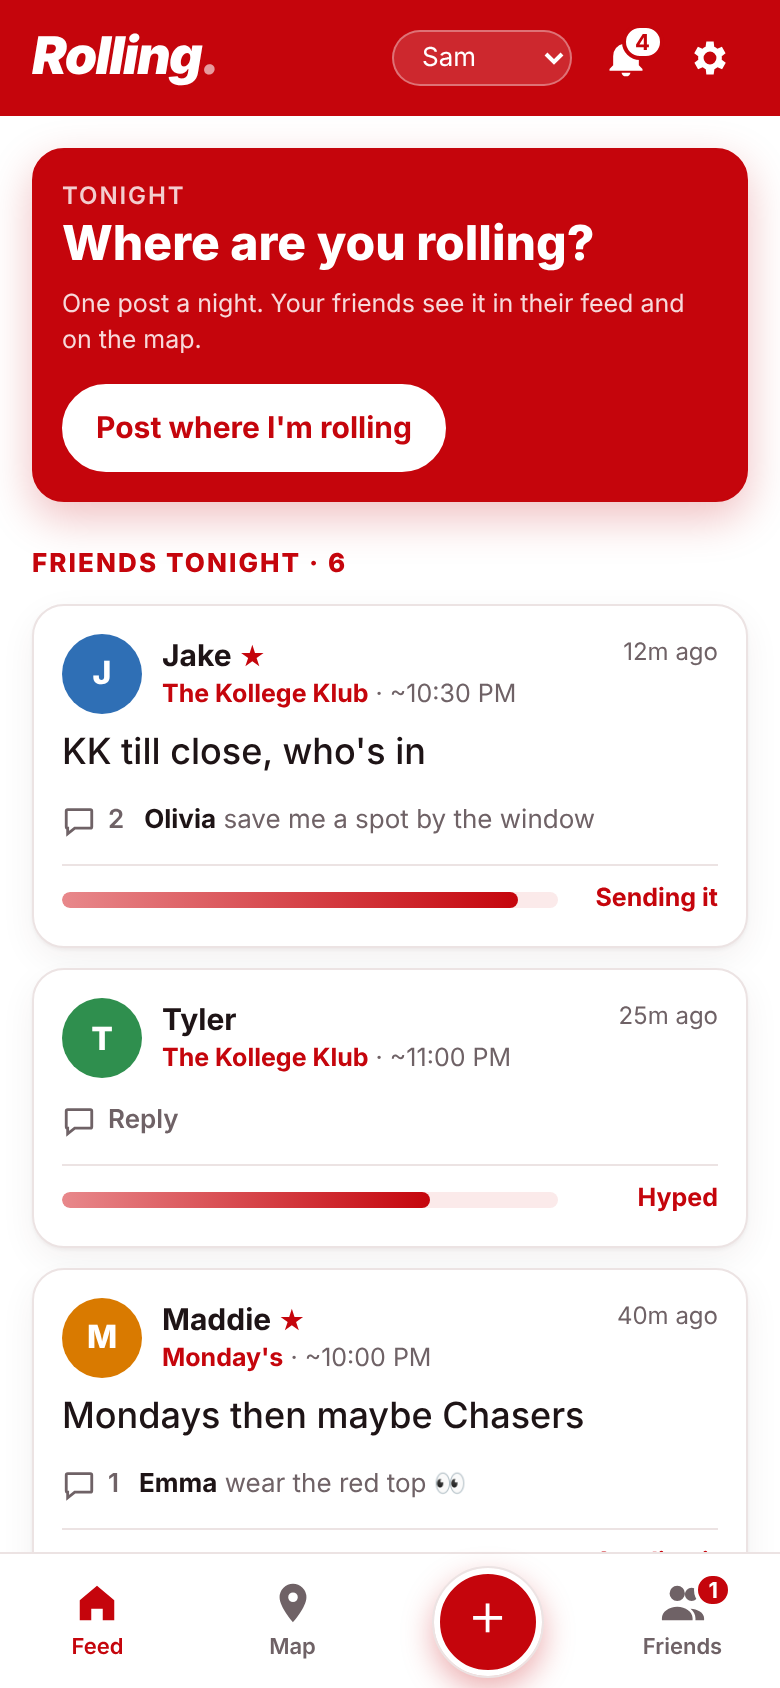
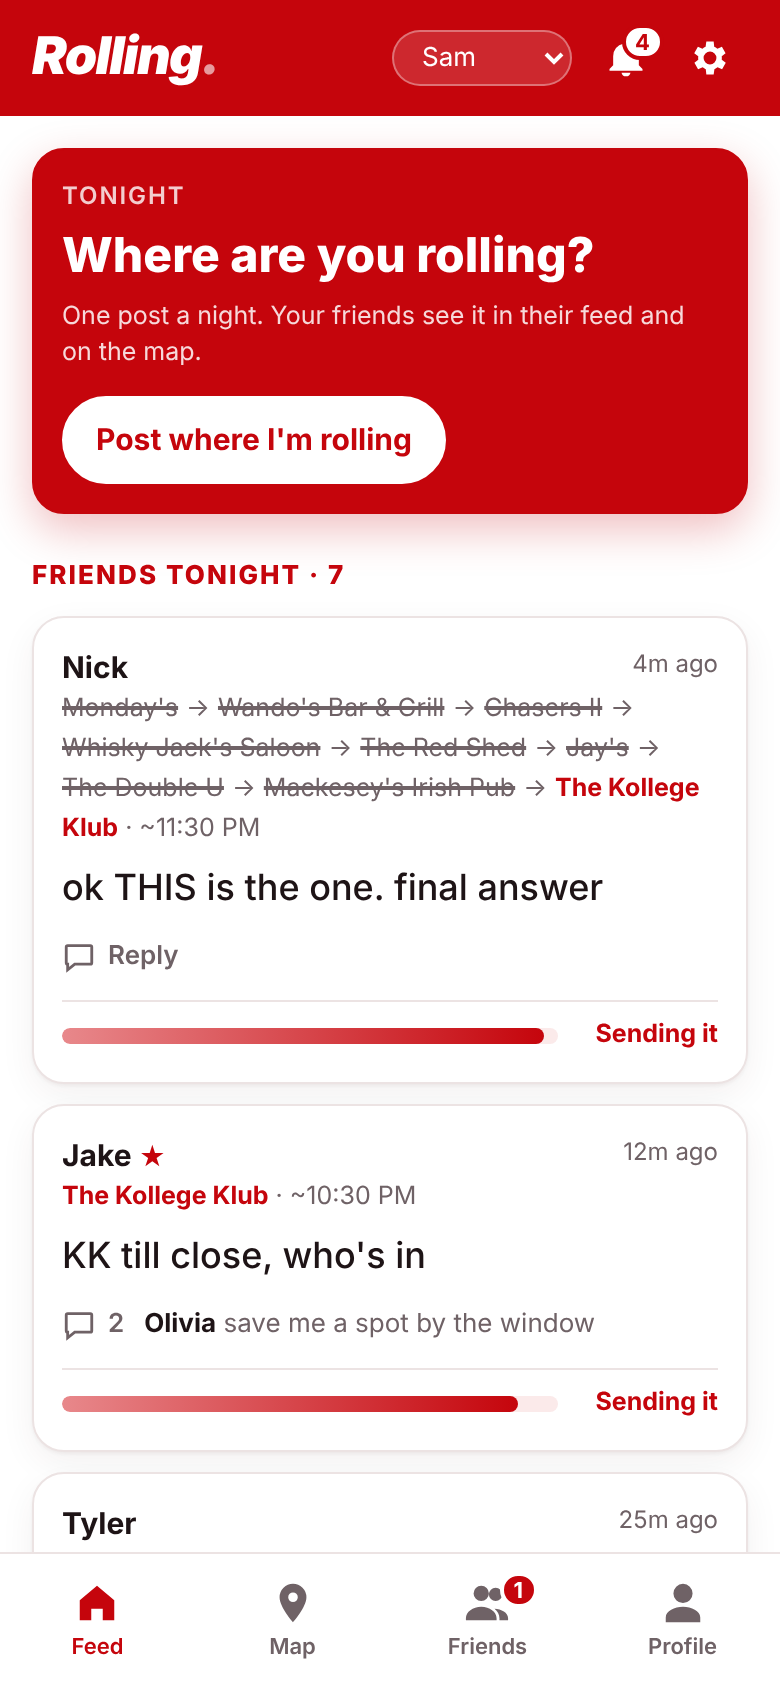
Replace middle + button with a Profile tab; drop profile pictures
Tab bar is now Feed, Map, Friends, Profile. Posting starts from the card at
the top of the feed. Profile shows name, @handle, stats, top 3 spots and
Edit profile, with no join date. Colored letter avatars are removed from
posts, replies, friends, requests and the map sheet, which now lists who's
going by name.

Claude-Session: https://claude.ai/code/session_01LsgwHYcrkn2rvmvnVgPXbN

diff --git a/app.js b/app.js
@@ -93,9 +93,6 @@
     if (m < 60) return m + "m ago";
     return Math.floor(m / 60) + "h ago";
   }
-  function avatar(u, cls = "") {
-    return `<div class="avatar ${cls}" style="background:${u.color}">${esc(u.name[0])}</div>`;
-  }
   function distKm(a, b) {
     const R = 6371, toR = Math.PI / 180;
     const dLat = (b[0] - a[0]) * toR, dLon = (b[1] - a[1]) * toR;
@@ -151,7 +148,6 @@
     if (name === "map") setTimeout(() => map && map.invalidateSize(), 0);
   }
   document.querySelectorAll(".tabbar [data-tab]").forEach((b) => b.addEventListener("click", () => showTab(b.dataset.tab)));
-  $("#postBtn").addEventListener("click", () => openComposer());
 
   // ---------- view-as switcher (stand-in for sign-in) ----------
   function renderViewAs() {
@@ -190,12 +186,17 @@
     box.classList.remove("hidden");
   }, true);
 
+  // "Jake", "Jake and Tyler", "Jake, Tyler and Olivia"
+  function nameList(n) {
+    return n.length < 2 ? (n[0] || "") : n.slice(0, -1).join(", ") + " and " + n[n.length - 1];
+  }
+
   // ---------- feed ----------
-  // Post layout (Sam, 2026-11-18): name + picture, then bar and arrival time in
+  // Post layout (Sam, 2026-11-18): name (no profile pictures anywhere), then bar and arrival time in
   // small text, then the comment in larger text, replies, and the excitement bar last.
   function postBody(p, opts = {}) {
     const u = user(p.userId), b = BAR_BY_ID[p.barId];
-    return `<div class="post-head">${avatar(u)}
+    return `<div class="post-head">
         <div class="post-meta">
           <div class="line1"><span class="who">${u.id === state.me ? "You" : esc(u.name)}${isFav(state.me, u.id) ? ' <span class="fav-star" title="Favorite">★</span>' : ""}</span><span class="time">${ago(p.at)}</span></div>
           <div class="post-where">${(p.history || []).map((h, i) =>
@@ -250,7 +251,7 @@
 
     if (quiet.length) {
       html += `<h2>Haven't posted yet</h2><div class="waiting">` +
-        quiet.map((u) => `<div class="w">${avatar(u, "sm")}${esc(u.name)}</div>`).join("") + `</div>`;
+        quiet.map((u) => `<div class="w">${esc(u.name)}</div>`).join("") + `</div>`;
     }
     el.innerHTML = html;
 
@@ -475,11 +476,12 @@
     openSheet(`
       <h3>${esc(b.name)}</h3>
       <div class="sub">${esc(b.addr || b.type)}${posts.length ? ` · ${posts.length} going tonight` : ""}</div>
+      ${posts.length ? `<div class="goer-names">${esc(nameList(posts.map((p) => p.userId === state.me ? "You" : user(p.userId).name)))}</div>` : ""}
       ${friendSpots().count[barId] ? `<div class="spot-note">Your friends have rolled here ${friendSpots().count[barId]} time${friendSpots().count[barId] > 1 ? "s" : ""} before</div>` : ""}
       ${avg !== null ? `<div class="field-label">Group excitement</div>${meter(avg)}` : ""}
       <div class="goers">${posts.length ? posts.map((p) => {
         const u = user(p.userId);
-        return `<div class="g">${avatar(u, "sm")}<div class="g-body">
+        return `<div class="g"><div class="g-body">
           <div><b>${u.id === state.me ? "You" : esc(u.name)}</b> <span class="sub small">· ~${fmtTime(p.arrive)}</span></div>
           ${meter(p.excitement, true)}
           ${p.comment ? `<div class="small g-comment">${esc(p.comment)}</div>` : ""}
@@ -503,7 +505,7 @@
     const others = state.users.filter((u) => u.id !== state.me && !f.has(u.id) && !gotFrom.has(u.id));
     const mutuals = (uid) => [...friendIds(uid)].filter((x) => f.has(x)).length;
     const person = (u, sub, actions) => `
-      <div class="person" data-name="${esc((u.name + " " + u.handle).toLowerCase())}">${avatar(u)}
+      <div class="person" data-name="${esc((u.name + " " + u.handle).toLowerCase())}">
         <div class="meta"><div class="n">${esc(u.name)}</div><div class="h">@${esc(u.handle)}${sub ? " · " + sub : ""}</div></div>
         <div class="actions">${actions}</div></div>`;
 
@@ -605,7 +607,7 @@
       <div class="field-label">${rs.length} ${rs.length === 1 ? "reply" : "replies"}</div>
       <div class="replies">${rs.map((r) => {
         const ru = user(r.userId);
-        return `<div class="reply">${avatar(ru, "sm")}<div class="reply-body">
+        return `<div class="reply"><div class="reply-body">
           <div><b>${r.userId === state.me ? "You" : esc(ru.name)}</b> <span class="sub small">· ${ago(r.at)}</span></div>
           <div class="reply-text">${esc(r.text)}</div></div></div>`;
       }).join("") || `<div class="sub small">No replies yet. Start the conversation.</div>`}</div>
@@ -811,7 +813,7 @@
 
       <h2>Favorites</h2>
       <div class="card list">${friends.length ? friends.map((u) => `
-        <div class="person">${avatar(u, "sm")}<div class="meta"><div class="n">${esc(u.name)}</div></div><div class="actions">${starBtn(u.id)}</div></div>`).join("")
+        <div class="person"><div class="meta"><div class="n">${esc(u.name)}</div></div><div class="actions">${starBtn(u.id)}</div></div>`).join("")
         : `<div class="sub small">Add friends first, then star your favorites here.</div>`}</div>
 
       <h2>How you get them</h2>
@@ -848,6 +850,53 @@
     };
   }
 
+  // ---------- profile ----------
+  // First version, kept simple on purpose: who you are, a few counts, your usual spots.
+  function renderProfile() {
+    const el = $("#tab-profile");
+    const me = user(state.me);
+    const mine = state.posts.filter((p) => p.userId === state.me);
+    const nights = new Set(mine.map((p) => nightKey(p.at))).size;
+    const counts = {};
+    for (const p of mine) {
+      counts[p.barId] = (counts[p.barId] || 0) + 1;
+      for (const h of p.history || []) counts[h.barId] = (counts[h.barId] || 0) + 1;
+    }
+    const switches = mine.reduce((a, p) => a + (p.history || []).length, 0);
+    const top = Object.entries(counts).sort((a, b) => b[1] - a[1]).slice(0, 3);
+    el.innerHTML = `
+      <div class="profile-head">
+        <div class="profile-name">${esc(me.name)}</div>
+        <div class="sub">@${esc(me.handle)}</div>
+        <button class="btn small" id="editProfile">Edit profile</button>
+      </div>
+      <div class="card stats">
+        <div><b>${nights}</b><span>nights out</span></div>
+        <div><b>${Object.keys(counts).length}</b><span>bars</span></div>
+        <div><b>${switches}</b><span>switches</span></div>
+      </div>
+      <h2>Your usual spots</h2>
+      <div class="card list">${top.length ? top.map(([id, n], i) => `
+        <button class="spot-row" data-bar="${id}"><span class="rank top">${i + 1}</span>
+          <span class="info"><div class="n">${esc(BAR_BY_ID[id].name)}</div><div class="sub small">${n} night${n > 1 ? "s" : ""}</div></span></button>`).join("")
+        : `<div class="sub small">Post where you're rolling and your favorite bars show up here.</div>`}</div>`;
+    el.querySelectorAll("[data-bar]").forEach((n) => n.onclick = () => { showTab("map"); focusBar(n.dataset.bar); });
+    $("#editProfile").onclick = () => {
+      openSheet(`<h3>Edit profile</h3><div class="sub">Your friends see this.</div>
+        <label class="field-label" for="pfName">Name</label><input class="search" id="pfName" maxlength="30" value="${esc(me.name)}" />
+        <label class="field-label" for="pfHandle">Handle</label><input class="search" id="pfHandle" maxlength="20" value="${esc(me.handle)}" />
+        <div class="small counter" id="pfErr"></div>
+        <div class="sheet-actions"><button class="btn" id="pfCancel">Cancel</button><button class="btn primary" id="pfSave">Save</button></div>`);
+      $("#pfCancel").onclick = closeSheet;
+      $("#pfSave").onclick = () => {
+        const name = $("#pfName").value.trim(), handle = $("#pfHandle").value.trim().replace(/^@/, "").toLowerCase();
+        if (!name || !/^[a-z0-9_.]{2,20}$/.test(handle)) { $("#pfErr").textContent = "Add a name, and a handle of 2 to 20 letters, numbers, _ or ."; return; }
+        if (state.users.some((u) => u.id !== me.id && u.handle === handle)) { $("#pfErr").textContent = "@" + handle + " is taken."; return; }
+        me.name = name; me.handle = handle; save(); closeSheet(); renderViewAs(); render(); toast("Profile saved");
+      };
+    };
+  }
+
   // ---------- render ----------
   function render() {
     renderBadge();
@@ -856,6 +905,7 @@
     if (currentTab === "feed") renderFeed();
     if (currentTab === "map") renderMap();
     if (currentTab === "friends") renderFriends();
+    if (currentTab === "profile") renderProfile();
   }
 
   // First run: build the starting inbox by replaying tonight's posts and pending requests.

diff --git a/styles.css b/styles.css
@@ -78,9 +78,6 @@ h2:first-child { margin-top: 0; }
 .btn.ghost { color: var(--muted); }
 .btn.small { padding: 6px 12px; font-size: 13px; }
 
-.avatar { width: 40px; height: 40px; border-radius: 50%; display: grid; place-items: center;
-  font-weight: 800; color: var(--white); flex: none; font-size: 16px; }
-.avatar.sm { width: 30px; height: 30px; font-size: 12px; }
 
 /* Feed */
 .mine { background: var(--red); border-color: var(--red); color: var(--white); box-shadow: 0 8px 22px rgba(197,5,12,.25); }
@@ -309,7 +306,6 @@ textarea.comment:focus { border-color: var(--red); }
 .mine .post-where b, .mine .reply-peek b, .mine .fav-star { color: var(--white); }
 .mine .post-meta .who { color: var(--white); }
 .mine .post-meter { border-top-color: rgba(255,255,255,.3); }
-.mine .avatar { box-shadow: 0 0 0 2px var(--white); }
 .mine .reply-bar { margin-top: 8px; }
 .mine .post-text { margin-top: 8px; }
 .mine .post-meter { margin-top: 8px; }
@@ -330,3 +326,23 @@ textarea.comment:focus { border-color: var(--red); }
 .was-comment { margin-top: 4px; font-size: 14px; overflow-wrap: anywhere; }
 .was-comment.none { color: var(--muted); font-style: italic; }
 .mine .was-comment.none { color: rgba(255,255,255,.75); }
+
+/* Profile */
+.profile-head { display: flex; flex-direction: column; align-items: center; text-align: center; gap: 4px; padding: 10px 0 16px; }
+.profile-name { font-family: var(--display); font-size: 26px; font-weight: 800; }
+.profile-head .btn { margin-top: 10px; }
+.stats { display: grid; grid-template-columns: repeat(3, 1fr); text-align: center; padding: 14px 6px; }
+.stats > div { display: flex; flex-direction: column; }
+.stats > div + div { border-left: 1px solid var(--line); }
+.stats b { font-family: var(--display); font-size: 24px; color: var(--red); font-variant-numeric: tabular-nums; }
+.stats span { font-size: 12px; color: var(--muted); }
+.spot-row { display: flex; align-items: center; gap: 12px; width: 100%; text-align: left; background: none; border: 0;
+  border-bottom: 1px solid var(--line); padding: 10px 0; }
+.spot-row:last-child { border-bottom: 0; }
+.spot-row .rank { width: 22px; font-family: var(--display); font-weight: 800; color: var(--red); font-size: 17px; }
+.spot-row .n { font-weight: 600; }
+
+/* No profile pictures (Sam, 2026-11-18): names carry the rows. */
+.goer-names { font-weight: 700; font-size: 15px; margin: 8px 0 10px; }
+.waiting .w { font-size: 14px; }
+.profile-head { padding-top: 12px; }

diff --git a/index.html b/index.html
@@ -38,6 +38,7 @@
       </section>
       <section id="tab-friends" class="tab"></section>
       <section id="tab-settings" class="tab"></section>
+      <section id="tab-profile" class="tab"></section>
     </main>
 
     <nav class="tabbar">
@@ -45,10 +46,11 @@
         <svg viewBox="0 0 24 24" aria-hidden="true"><path d="M3 10.5 12 3l9 7.5V21h-6v-6H9v6H3z"/></svg><span>Feed</span></button>
       <button data-tab="map">
         <svg viewBox="0 0 24 24" aria-hidden="true"><path d="M12 2a7 7 0 0 0-7 7c0 5.2 7 13 7 13s7-7.8 7-13a7 7 0 0 0-7-7Zm0 9.5A2.5 2.5 0 1 1 12 6.5a2.5 2.5 0 0 1 0 5Z"/></svg><span>Map</span></button>
-      <button id="postBtn" class="post-btn" aria-label="Post where you're rolling"><span>＋</span></button>
       <button data-tab="friends">
         <svg viewBox="0 0 24 24" aria-hidden="true"><path d="M9 11a4 4 0 1 0 0-8 4 4 0 0 0 0 8Zm7.5 0a3.5 3.5 0 1 0 0-7 3.5 3.5 0 0 0 0 7ZM1 20c0-3.3 3.6-6 8-6s8 2.7 8 6v1H1v-1Zm17.5 1v-1c0-2-1-3.8-2.6-5 3.6.2 7.1 2 7.1 5v1h-4.5Z"/></svg><span>Friends</span>
         <span class="badge hidden" id="reqBadge">0</span></button>
+      <button data-tab="profile">
+        <svg viewBox="0 0 24 24" aria-hidden="true"><path d="M12 12a5 5 0 1 0 0-10 5 5 0 0 0 0 10Zm0 2c-4.4 0-9 2.2-9 5.5V22h18v-2.5c0-3.3-4.6-5.5-9-5.5Z"/></svg><span>Profile</span></button>
     </nav>
 
     <!-- Bottom sheet, used for the post composer and for "who's going" on the map -->

diff --git a/README.md b/README.md
@@ -16,10 +16,10 @@ Everything is saved in your browser (localStorage). There's no sign-in yet, so u
 
 | Tab | What it does |
 | --- | --- |
-| Feed | Your post for tonight, friends' posts (bar, excitement, arrival time, comment), and who hasn't posted yet. Tap a post to open its replies and reply (up to 100 words) |
+| Feed | Your post for tonight (tap "Post where I'm rolling" at the top: pick a bar, most popular first, then arrival time, an optional comment up to 100 words, and the excitement meter; posting again replaces it), friends' posts (bar, excitement, arrival time, comment), and who hasn't posted yet. Tap a post to open its replies and reply (up to 100 words) |
 | Map | Bars where friends are going, with a count on each pin. Tap a pin to see who's going, when they'll get there, and the group's excitement. "Friends' spots" shows every bar your friends have rolled to before, bigger dots for the ones they go to most. Bars your friends never go to aren't shown |
-| ＋ | Pick a bar (most popular first), drag the excitement meter, pick an arrival time, and add an optional comment (up to 100 words). One post per night; posting again replaces it |
 | Friends | One search across your friends, requests and everyone else (friends first). Send, accept or decline friend requests; star favorites; remove friends. Feed and map only show friends |
+| Profile | Your name and @handle, nights out, bars and switches, your top 3 usual spots, and Edit profile. No profile pictures anywhere in the app |
 | 🔔 / ⚙ | Notification inbox and Settings (top right). Choose what you hear about: favorites posting, any friend posting, a bar hitting N+ friends, a friend picking your bar, a friend switching bars, a friend maxing out excitement, friend requests, and a nightly reminder to post. Optional browser notifications while the site is open |
 
 **Popularity:** every post by anyone counts toward a bar, and newer posts count more (a post loses half its weight every 3 weeks). The demo seeds 8 weeks of history so the ranking has something to work with.
